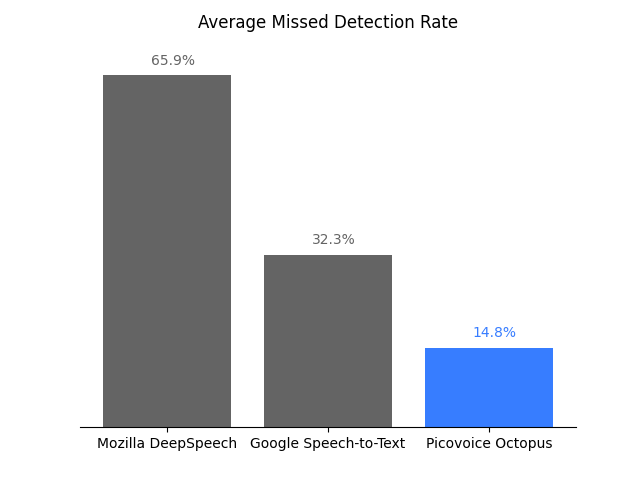
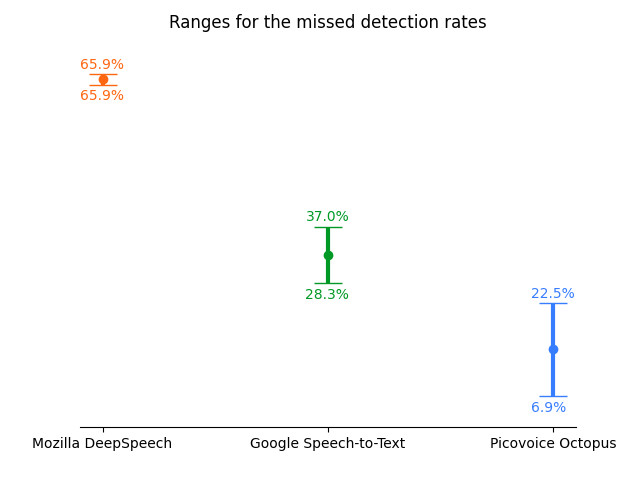
rev 1

diff --git a/benchmark.py b/benchmark.py
@@ -1,7 +1,6 @@
 import argparse
 import logging
 import os.path
-from time import time
 
 from dataset import *
 from engine import *
@@ -76,49 +75,8 @@ def save(file_name, results):
         json.dump(results, f)
 
 
-def run_realtime_factor(dataset_folder, access_key):
-    test_file = os.path.join(
-        os.path.abspath(dataset_folder),
-        'legacy',
-        'test',
-        'sph',
-        'BillGates_2010.wav')
-    test_file_duration_sec = 1772.03
-
-    commands = {
-        Engines.MOZILLA_DEEP_SPEECH: {
-            "build": "",
-            "test": f"cd resources/engines/deep_speech/ && "
-                    f"./deepspeech --model deepspeech-0.9.3-models.pbmm "
-                    f"--scorer deepspeech-0.9.3-models.scorer "
-                    f"--audio '{test_file}'",
-        },
-        Engines.PICOVOICE_OCTOPUS: {
-            "build": f"cd resources/engines/octopus/ && "
-                     f"cmake -S demo/c/ -B demo/c/build && cmake --build demo/c/build ",
-            "test": f"cd resources/engines/octopus/ && "
-                    f"./demo/c/build/octopus_index_demo lib/linux/x86_64/libpv_octopus.so "
-                    f"lib/common/octopus_params.pv '{access_key}' "
-                    f"'{test_file}' ../../data/index.oif && "
-                    f"./demo/c/build/octopus_search_demo lib/linux/x86_64/libpv_octopus.so "
-                    f"lib/common/octopus_params.pv '{access_key}' index.oif 'picovoice'",
-        }
-    }
-
-    results = {}
-    for engine in commands.keys():
-        logging.info(f"{engine.value} is processing '{test_file}'...")
-        os.system(commands[engine]["build"])
-        start_sec = time()
-        os.system(commands[engine]["test"])
-        end_sec = time()
-        results[engine.value] = (end_sec - start_sec) / test_file_duration_sec
-
-    save('REAL_TIME_FACTOR', results)
-
-
 def run(engine_name, dataset, search_phrases, access_key='', bucket_name=''):
-    engine_handle = Engine.create(Engines[engine_name], access_key, bucket_name)
+    engine_handle = Engine.create(Engines[engine_name], access_key=access_key, bucket_name=bucket_name)
     logging.info('created %s engine' % str(engine_handle))
 
     results = dict()
@@ -174,32 +132,38 @@ def run(engine_name, dataset, search_phrases, access_key='', bucket_name=''):
 
 def main():
     parser = argparse.ArgumentParser()
-    parser.add_argument('--engines', nargs='+', choices=[engine.value for engine in Engines])
+    parser.add_argument(
+        '--engines',
+        nargs='+',
+        choices=[engine.value for engine in Engines],
+        default=[engine.value for engine in Engines]
+    )
     parser.add_argument('--dataset_folder', type=str, required=True)
-    parser.add_argument('--access_key', type=str, default='')
-    parser.add_argument('--google_bucket_name', type=str, default='')
-    parser.add_argument('--realtime_factor_test', action='store_true')
+    parser.add_argument('--access_key', type=str)
+    parser.add_argument('--google_bucket_name', type=str)
 
     args = parser.parse_args()
+
+    if Engines.PICOVOICE_OCTOPUS.value in args.engines and args.access_key is None:
+        print('Picovoice Octopus engine requires an AccessKey to perform the tests')
+        exit(1)
+
+    if Engines.GOOGLE_SPEECH_TO_TEXT.value in args.engines and args.google_bucket_name is None:
+        print('Google Speech-to-Text engine requires a Google Storage bucket name to perform the tests')
+        exit(1)
 
     dataset = Dataset.create('tedlium', args.dataset_folder)
     logging.info(f'loaded {str(dataset)} with {dataset.size_hours():.2f} hours of data')
 
-    if args.realtime_factor_test:
-        run_realtime_factor(args.dataset_folder, args.access_key)
-    else:
-        if len(args.engines) == 0:
-            print('The engine list is empty')
-            exit(1)
-        for engine in args.engines:
-            results = run(
-                engine_name=engine,
-                dataset=dataset,
-                search_phrases=SEARCH_PHRASES,
-                access_key=args.access_key,
-                bucket_name=args.google_bucket_name
-            )
-            save(file_name=f'{str(dataset)}-{engine}', results=results)
+    for engine in args.engines:
+        results = run(
+            engine_name=engine,
+            dataset=dataset,
+            search_phrases=SEARCH_PHRASES,
+            access_key=args.access_key,
+            bucket_name=args.google_bucket_name
+        )
+        save(file_name=f'{str(dataset)}-{engine}', results=results)
 
 
 if __name__ == '__main__':

diff --git a/plot.py b/plot.py
@@ -5,6 +5,7 @@ import matplotlib.pyplot as plt
 
 from engine import *
 from benchmark import CONFIDENCE_LEVELS
+import numpy as np
 
 GREY = (100 / 255, 100 / 255, 100 / 255)
 G_COLOR = (0, 153 / 255, 37 / 255)
@@ -27,16 +28,18 @@ def main():
         if spine.spine_type != 'bottom':
             spine.set_visible(False)
 
-    ave_missed_rate = list()
+    max_missed_rate = list()
+    min_missed_rate = list()
     colors_list = [M_COLOR, G_COLOR, PV_COLOR]
     markers_list = ['o', 's', 'D']
+    engines = ['MOZILLA_DEEP_SPEECH', 'GOOGLE_SPEECH_TO_TEXT', 'PICOVOICE_OCTOPUS']
     engine_labels = ['Mozilla DeepSpeech', 'Google Speech-to-Text', 'Picovoice Octopus']
-    for index, engine in enumerate(Engines):
+    for index, engine in enumerate(engines):
         path = os.path.join(
             os.path.dirname(__file__),
             'resources',
             'results',
-            '%s-%s.dat' % (args.dataset, engine.value)
+            '%s-%s.dat' % (args.dataset, engine)
         )
 
         with open(path) as f:
@@ -44,12 +47,13 @@ def main():
 
         false_rate = list()
         missed_rate = list()
-
         for confidence_level in CONFIDENCE_LEVELS:
             false_rate.append(results[str(confidence_level)][0])
             missed_rate.append(results[str(confidence_level)][1])
-        line_plot.plot(false_rate, missed_rate, label=engine.value, marker=markers_list[index], color=colors_list[index])
-        ave_missed_rate.append(sum(missed_rate) / len(false_rate))
+        line_plot.plot(false_rate, missed_rate, label=engine, marker=markers_list[index], color=colors_list[index])
+        print(missed_rate)
+        max_missed_rate.append(max(missed_rate))
+        min_missed_rate.append(min(missed_rate))
 
     line_plot.set_yticks(np.arange(10, 70, 10))
     line_plot.set_yticklabels(["%s%%" % str(x) for x in np.arange(10, 70, 10)])
@@ -60,12 +64,28 @@ def main():
     line_plot.axvline(1.05, linewidth=0.5, color='r', ls='-.')
     line_fig.savefig(os.path.join(os.path.dirname(__file__), 'resources', 'figs', 'false_alarm_vs_missed_detection.png'))
 
-    color = [GREY, GREY, PV_COLOR]
-    bar_plot.set_title('Average Missed Detection Rate\n')
+    bar_plot.set_title('Ranges for the missed detection rates\n')
     bar_plot.set_yticks([])
-    bar_plot.bar(engine_labels, ave_missed_rate, color=color)
-    for i in range(len(ave_missed_rate)):
-        bar_plot.text(i - 0.1, ave_missed_rate[i] + 2, '%.1f%%' % ave_missed_rate[i], color=color[i])
+    bar_plot.set_xticks([0, 1, 2])
+    bar_plot.set_xticklabels(engine_labels)
+    bar_plot.set_ylim(0, 70)
+    for index, engine in enumerate(engine_labels):
+        mean = (max_missed_rate[index] + min_missed_rate[index]) / 2
+        error = (max_missed_rate[index] - min_missed_rate[index] + 2) / 2
+        bar_plot.errorbar(
+            index,
+            mean,
+            yerr=error,
+            fmt='o',
+            color=colors_list[index],
+            ecolor=colors_list[index],
+            elinewidth=3,
+            capsize=10
+        )
+        bar_plot.text(index - 0.1, max_missed_rate[index] + 2, '%.1f%%' % max_missed_rate[index], color=colors_list[index])
+        bar_plot.text(index - 0.1, min_missed_rate[index] - 4, '%.1f%%' % min_missed_rate[index],
+                      color=colors_list[index])
+
     bar_fig.savefig(os.path.join(os.path.dirname(__file__), 'resources', 'figs', 'missed_detection_comparison.png'))
 
     rtf_result_path = os.path.join(os.path.dirname(__file__), 'resources', 'results', 'REAL_TIME_FACTOR.dat')

diff --git a/realtime_factor.py b/realtime_factor.py
@@ -1,0 +1,68 @@
+import argparse
+import logging
+import os.path
+from time import time
+
+from benchmark import save
+from dataset import *
+from engine import *
+
+logging.basicConfig(format='%(asctime)s:%(levelname)s:%(message)s', level=logging.INFO)
+
+
+def run_realtime_factor(dataset_folder, access_key):
+    test_file = os.path.join(
+        os.path.abspath(dataset_folder),
+        'legacy',
+        'test',
+        'sph',
+        'BillGates_2010.wav')
+    test_file_duration_sec = 1772.03
+
+    commands = {
+        Engines.MOZILLA_DEEP_SPEECH: {
+            "build": "",
+            "test": f"cd resources/engines/deep_speech/ && "
+                    f"./deepspeech --model deepspeech-0.9.3-models.pbmm "
+                    f"--scorer deepspeech-0.9.3-models.scorer "
+                    f"--audio '{test_file}'",
+        },
+        Engines.PICOVOICE_OCTOPUS: {
+            "build": f"cd resources/engines/octopus/ && "
+                     f"cmake -S demo/c/ -B demo/c/build && cmake --build demo/c/build ",
+            "test": f"cd resources/engines/octopus/ && "
+                    f"./demo/c/build/octopus_index_demo lib/linux/x86_64/libpv_octopus.so "
+                    f"lib/common/octopus_params.pv '{access_key}' "
+                    f"'{test_file}' ../../data/index.oif && "
+                    f"./demo/c/build/octopus_search_demo lib/linux/x86_64/libpv_octopus.so "
+                    f"lib/common/octopus_params.pv '{access_key}' index.oif 'picovoice'",
+        }
+    }
+
+    results = {}
+    for engine in commands.keys():
+        logging.info(f"{engine.value} is processing '{test_file}'...")
+        os.system(commands[engine]["build"])
+        start_sec = time()
+        os.system(commands[engine]["test"])
+        end_sec = time()
+        results[engine.value] = (end_sec - start_sec) / test_file_duration_sec
+
+    save('REAL_TIME_FACTOR', results)
+
+
+def main():
+    parser = argparse.ArgumentParser()
+    parser.add_argument('--dataset_folder', type=str, required=True)
+    parser.add_argument('--access_key', type=str, required=True)
+
+    args = parser.parse_args()
+
+    dataset = Dataset.create('tedlium', args.dataset_folder)
+    logging.info(f'loaded {str(dataset)} with {dataset.size_hours():.2f} hours of data')
+
+    run_realtime_factor(args.dataset_folder, args.access_key)
+
+
+if __name__ == '__main__':
+    main()

diff --git a/engine.py b/engine.py
@@ -32,13 +32,13 @@ class Engine(object):
         raise NotImplementedError()
 
     @classmethod
-    def create(cls, engine_type, access_key='', bucket_name=''):
+    def create(cls, engine_type, **kwargs):
         if engine_type is Engines.GOOGLE_SPEECH_TO_TEXT:
-            return GoogleSpeechToText(bucket_name)
+            return GoogleSpeechToText(kwargs['bucket_name'])
         elif engine_type is Engines.MOZILLA_DEEP_SPEECH:
             return MozillaDeepSpeech()
         elif engine_type is Engines.PICOVOICE_OCTOPUS:
-            return PicovoiceOctopus(access_key)
+            return PicovoiceOctopus(kwargs['access_key'])
         else:
             raise ValueError(f"cannot create {cls.__name__} of type 'engine_type'")
 

diff --git a/README.md b/README.md
@@ -2,7 +2,7 @@
 
 Made in Vancouver, Canada by [Picovoice](https://picovoice.ai)
 
-This is a minimalist and extensible framework for benchmarking different speech-to-index engines. It has been developed
+This is a minimalist and extensible framework for benchmarking different Speech-to-Index engines. It has been developed
 and tested on Ubuntu 20.04 (x86_64) using Python3.8.
 
 ## Table of Contents
@@ -36,23 +36,23 @@ indexes speech without relying on a text representation.
 
 ## Metrics
 
-This benchmark mainly considers three metrics: missed detection rate, false alarm rate, and real-time factor.
+This benchmark mainly considers three metrics: missed detection rate, false alarm per hour, and real-time factor.
 
-### Missed Detection and False Alarm Rate
+### Missed Detection and False Alarm Per Hour
 
-We measure the accuracy of the speech-to-index engines using false alarm per hour and missed detection rates. The false
+We measure the accuracy of the Speech-to-Index engines using false alarm per hour and missed detection rates. The false
 alarm per hour is measured as a number of false positives in an hour. Missed detection is measured as the percentage of search phrases inside an audio file that an engine misses incorrectly.
 
 ### Real Time Factor
 
 Real time factor (RTF) is measured as the ratio of CPU (processing) time to the length of the input speech file. An engine with lower RTF is more computationally efficient. We omit this metric for the cloud-based
-Google Speech-to-Text engine.
+Google speech-to-text engine.
 
-## Speech-to-Index Engines
+## Engines
 
 Since Octopus has no exact off-the-shelf counterpart that can search through audio files by indexing them, we use two well-known speech-to-text engines to transcript audio files first and then search inside the obtained text-based results.
 
-### Google Speech-to-Text
+### Google speech-to-text
 
 A cloud-based speech recognition engine offered by Google Cloud Platform. Find more information
 [here](https://cloud.google.com/speech-to-text/).
@@ -64,26 +64,26 @@ A cloud-based speech recognition engine offered by Google Cloud Platform. Find m
 
 ### Picovoice Octopus
 
-[Octopus](https://github.com/Picovoice/cheetah) is a speech-to-index engine developed using
+[Octopus](https://github.com/Picovoice/cheetah) is a Speech-to-Index engine developed using
 [Picovoice's](http://picovoice.ai/) proprietary deep learning technology, which directly indexes speech without relying
 on a text representation. It works offline and is supported on a growing number of platforms including Android, iOS,
 and [web](https://picovoice.ai/demos/audio-search/).
 
 ## Usage
 
-Below is information on how to use this framework to benchmark the speech-to-text engines.
+Below is information on how to use this framework to benchmark the mentioned engines.
 
 1. Make sure that you have installed DeepSpeech on your machine by following the instructions on its official pages. Also make sure all the git submodules are updated.
 2. Install all required python packages by runnig `pip3 install -r requirements.txt` inside the terminal
 3. Run the `config.py` script in order to download and unpack DeepSpeech's models
    under [resources/engines/deepspeech](/resources/engines/deepspeech).
 4. Download [TED-LIUM Release 3](https://openslr.org/51/) and unpack it on your computer.
-5. For running Google Speech-to-Text, you need to sign up and setup permissions /
-   credentials according to its documentation. You also need to enable the 'Cloud Speech-to-Text' and 'Cloud storage' APIs
+5. For running Google speech-to-text, you need to sign up and setup permissions /
+   credentials according to its documentation. You also need to enable the 'Cloud speech-to-text' and 'Cloud storage' APIs
    and create a bucket for this benchmark. Running these services may incur fees.
 6. For running Octopus, you need to get an `AccessKey` from the [Picovoice Console](https://picovoice.ai/console/).
 
-### Missed Detection and False Alarm Rate Measurement
+### Missed Detection and False Alarm Per Hour Measurement
 
 These two metrics can be measured by running the following command from the root of the repository:
 
@@ -107,13 +107,14 @@ python3 benchmark.py --realtime_factor_test --dataset_folder {DATASET_FOLDER} --
 
 The benchmarking was performed on a Linux machine running Ubuntu 20.04 with 16GB of RAM and an Intel i7-10710U CPU running at 4.7 GHz.
 
-The figure below compares the average missed detection rate of speech-to-index engines. Octopus achieves the best performance by spotting search phrases almost two times better than its closest opponent.
+The figure below compares the upper and lower ranges of the missed detection rates for all engines.
+Octopus achieves the best performance by missing fewer occurrences of search phrases.
 
 ![](resources/figs/missed_detection_comparison.png)
 
 The figure below shows the false alarm per hour versus the missed detection rate for different confidence levels. `Mozilla DeepSpeech` does not provide the confidence level of the result in the same way that other engines deliver. Therefore, there is only one data point for it in the plot instead of a curve.
 
-In addition, as shown by a red line, for around 1 false alarm per hour, Octopus achieves 22% for the missed detection rate while Google Speech-to-Text acquires 30%.
+In addition, as shown by a red line, for around 1 false alarm per hour, Octopus achieves 22% for the missed detection rate while Google speech-to-text acquires 30%.
 
 ![](resources/figs/false_alarm_vs_missed_detection.png)
 
@@ -121,8 +122,3 @@ One important factor about Speech-to-Index engines is their processing speed. Th
 
 ![](resources/figs/realtime_factor_comparison.png)
 
-## License
-
-The benchmarking framework is freely available and can be used under the Apache 2.0 license.
-
-For commercial enquiries contact us via this [form](https://picovoice.ai/contact.html).
